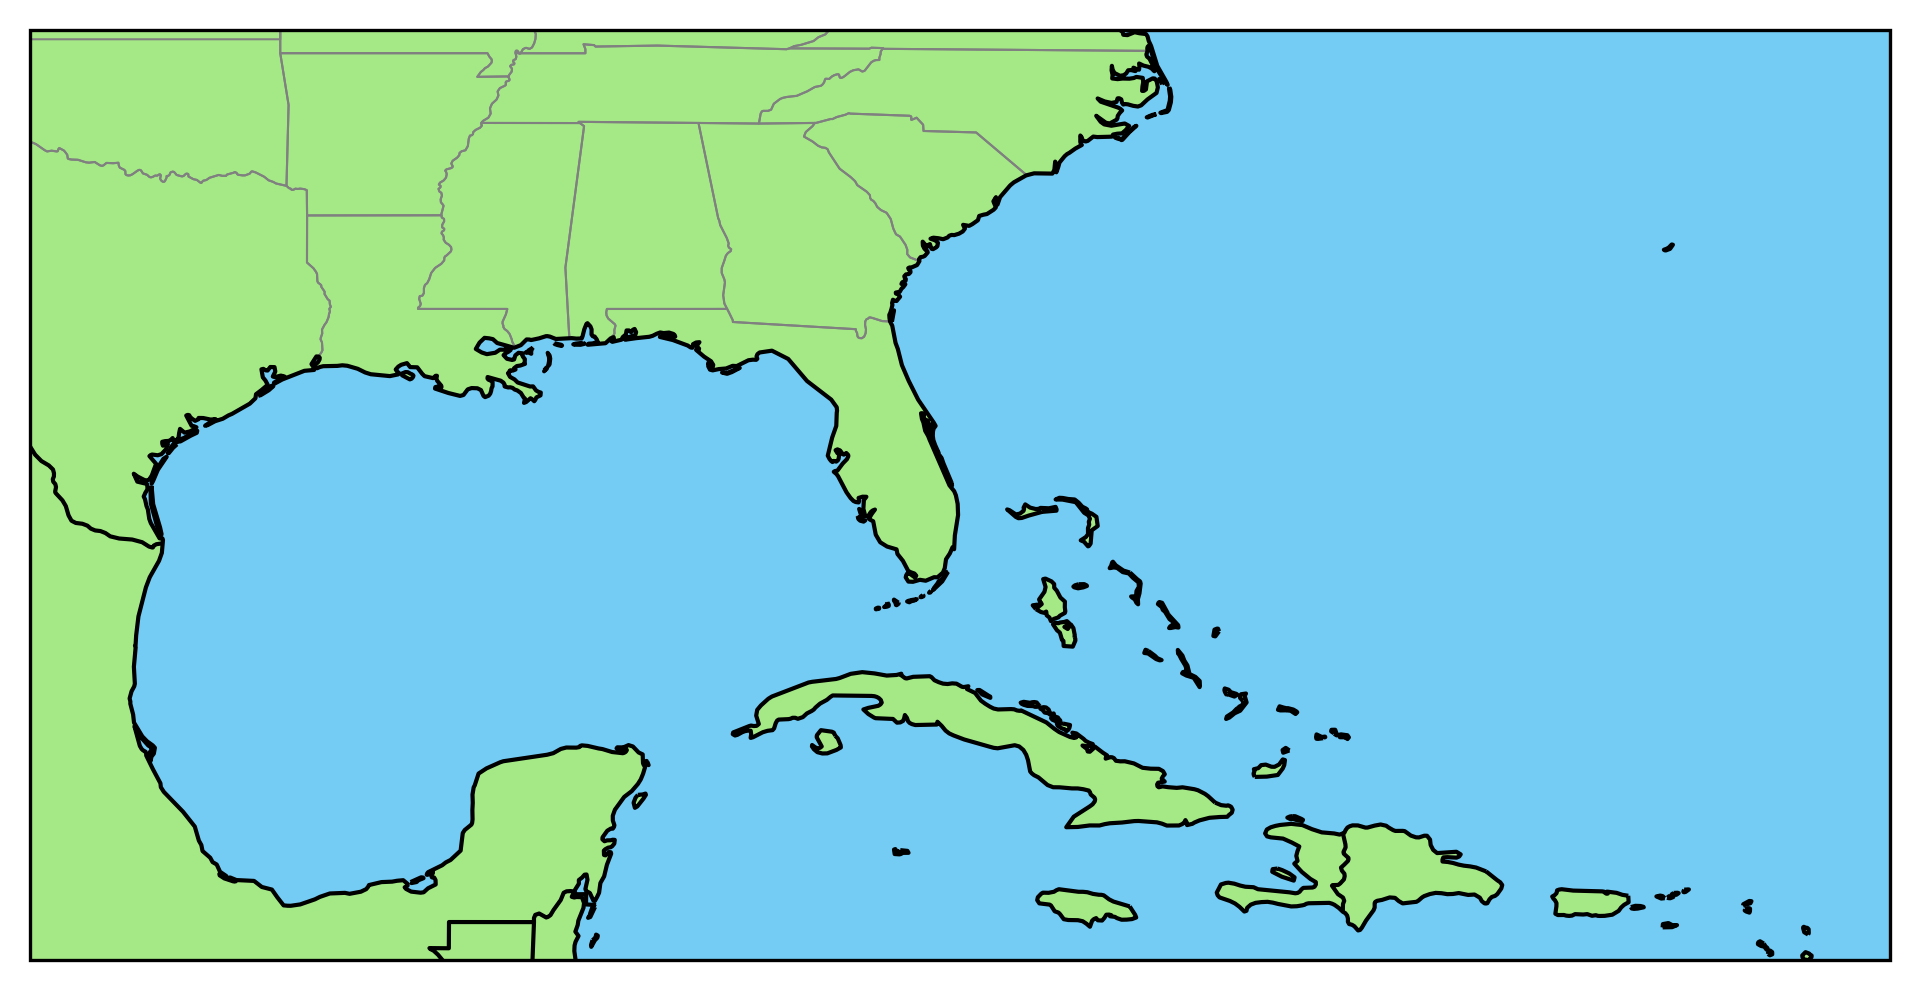
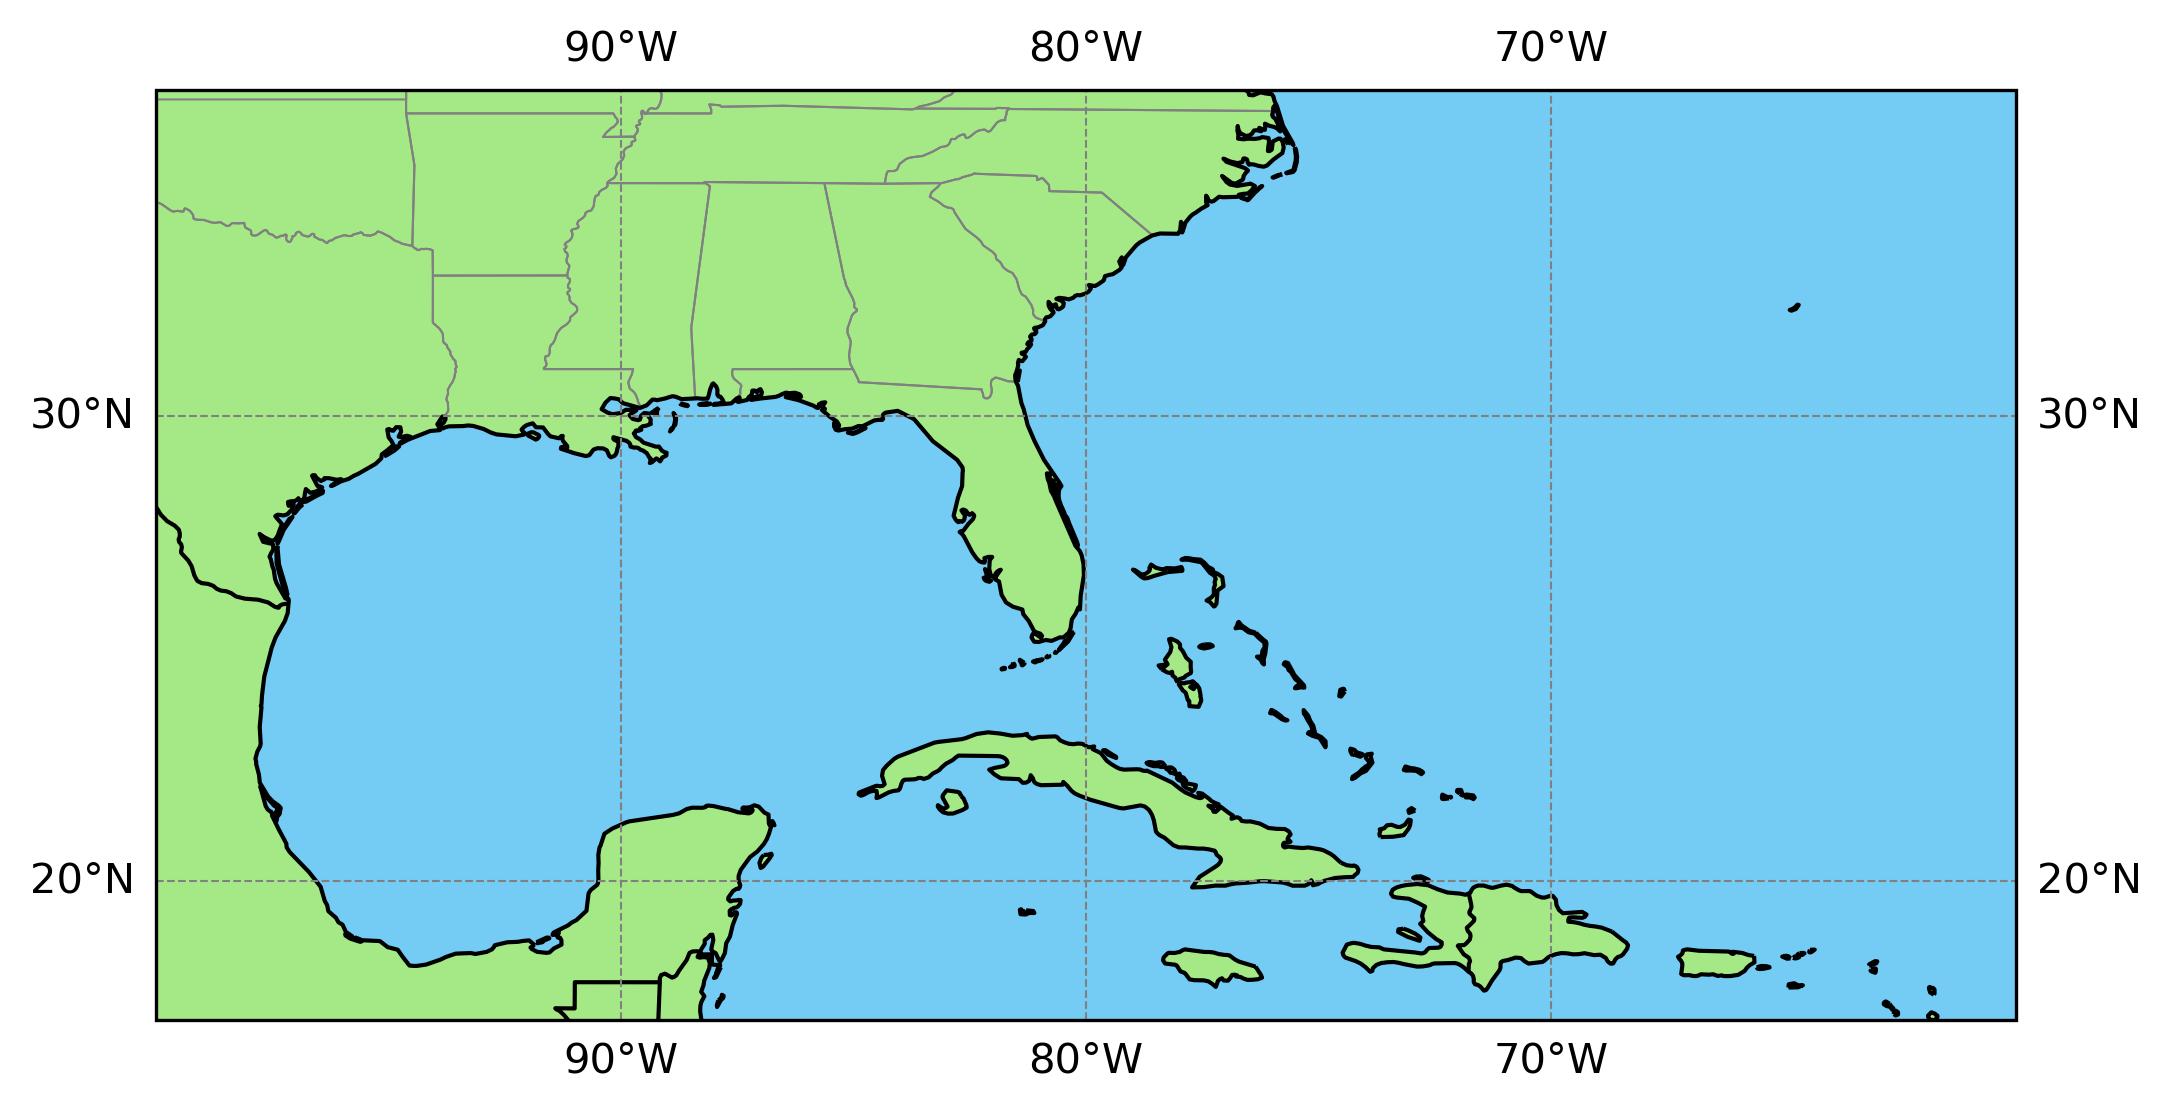
add gridlines and labels and document testing in README.md

diff --git a/stormtracker.py b/stormtracker.py
@@ -1,7 +1,9 @@
 import cartopy.crs as ccrs  # Provides library to display an unprojected (lat/lon) map in a matplotlib axes
-import cartopy.feature as cfeature # Gives access to border features
+import cartopy.feature as cfeature # Gives access to border/colour features
 import matplotlib.pyplot as plt  # the Figure object acts as a container for the display output
-
+from cartopy.mpl.gridliner import LONGITUDE_FORMATTER, LATITUDE_FORMATTER  # to display gridlines
+import matplotlib.ticker as mticker  # use to display gridlines
+import numpy as np
 
 '''
 Global variables [accessible to whole module each time an instance of plt is called]
@@ -10,6 +12,13 @@ Global variables [accessible to whole module each time an instance of plt is cal
 # Create a PlateCaree Cartopy projection. Ths is the default projection for displaying lat/long coordinates
 proj = ccrs.PlateCarree()
 
+# Define dictionary to set grid parameters for display on stormtracker map.
+# CREDIT to https://python.nicolasbarrier.fr/maps/carto.html
+
+#give gridlines same projection.  Set grid style parameters
+gridparams = {'crs': ccrs.PlateCarree(central_longitude=0),
+              'draw_labels':True, 'linewidth':0.5,
+              'color':'gray', 'alpha':1, 'linestyle':'--'}
 
 '''
 Functions
@@ -17,7 +26,7 @@ Functions
 
 def displaymap(ax):
     '''
-    Render same map boundary, fill and extent values to an instance of plt.axes
+    Render same map boundary, fill and extent values and gridlines to an instance of plt.axes
     '''
 
     # Add coastlines and US state boundaries for users spatial context
@@ -29,6 +38,16 @@ def displaymap(ax):
     ax.add_feature(cfeature.LAND.with_scale('50m'), linewidth=0.5, facecolor='#a5e987', edgecolor='face')
     ax.add_feature(cfeature.OCEAN.with_scale('50m'), linewidth=0.5, facecolor='#74ccf4', edgecolor='face')
 
+    # Add bespoke gridlines to map
+    gl = ax.gridlines(**gridparams)
+    gl.xlabels_top = False  # turn off x labels on top of axes
+    gl.ylabels_right = False  # turn off y labels on right of axes
+    gl.xlocator = mticker.FixedLocator(np.arange(-180, 180 + 40, 10))
+    gl.ylocator = mticker.FixedLocator(np.arange(-90, 90 + 10, 10))
+    gl.xformatter = LONGITUDE_FORMATTER
+    gl.yformatter = LATITUDE_FORMATTER
+
+
     # Set extent to Gulf Coast
     ax.set_extent([-100, -60, 17, 37], proj)  # long min, long max, lat min, lat max boundary coordinate values
 
@@ -38,15 +57,16 @@ def displaymap(ax):
 
 def savefig(fig):
     '''
-    Save the figure as  stormtrackermap.png with a dpi of 300
+    Save the figure as stormtrackermap.png with a dpi of 300
     '''
     fig.savefig('stormtrackermap.png', bbox_inches='tight', dpi=300)
 
 
 '''
-Create a Matplotlib figure instance with axes containing PlateCaree default map projection
+Create a plt figure instance with axes containing PlateCaree default map projection
 '''
 fig = plt.figure(figsize=(8, 8))  # create a figure of size 8x8 (representing the page size in inches)
-ax = plt.axes(projection=proj)  # create an axes object in the figure, use a PlateCarre projection for plotted data
-ax = displaymap(ax)
-savefig(fig)
+ax = plt.axes(projection=proj)  # use a PlateCarre projection in the axes object
+ax = displaymap(ax) # create an axes object in the figure
+savefig(fig)  # save an output file to view
+

diff --git a/README.md b/README.md
@@ -178,3 +178,22 @@ Ensure you are working in the correct *conda* environment and local file directo
 #### Test 2 - Create a simple output map of the Gulf of Mexico
 **Status** - PASS
 ![test 2 map display img](/imgs/testimgs/test2_mapdisplay.png)
+
+#### Test 3 - Add gridlines map of the Gulf of Mexico
+**Status** - PARTIAL SUCCESS
+
+Gridlines displaying but labels on top and right of axes still visible despite being set to `False`
+after grid params have been set
+
+```Python
+gridparams = {'crs': ccrs.PlateCarree(central_longitude=0),
+              'draw_labels':True, 'linewidth':0.5,
+              'color':'gray', 'alpha':1, 'linestyle':'--'}
+```
+
+``` Python
+gl.xlabels_top = False  # turn off x labels on top of axes
+gl.ylabels_right = False  # turn off y labels on right of axes
+```
+
+![test 3 add gridlines with labels img](/imgs/testimgs/test3_addgridlineswithlabels.png)
